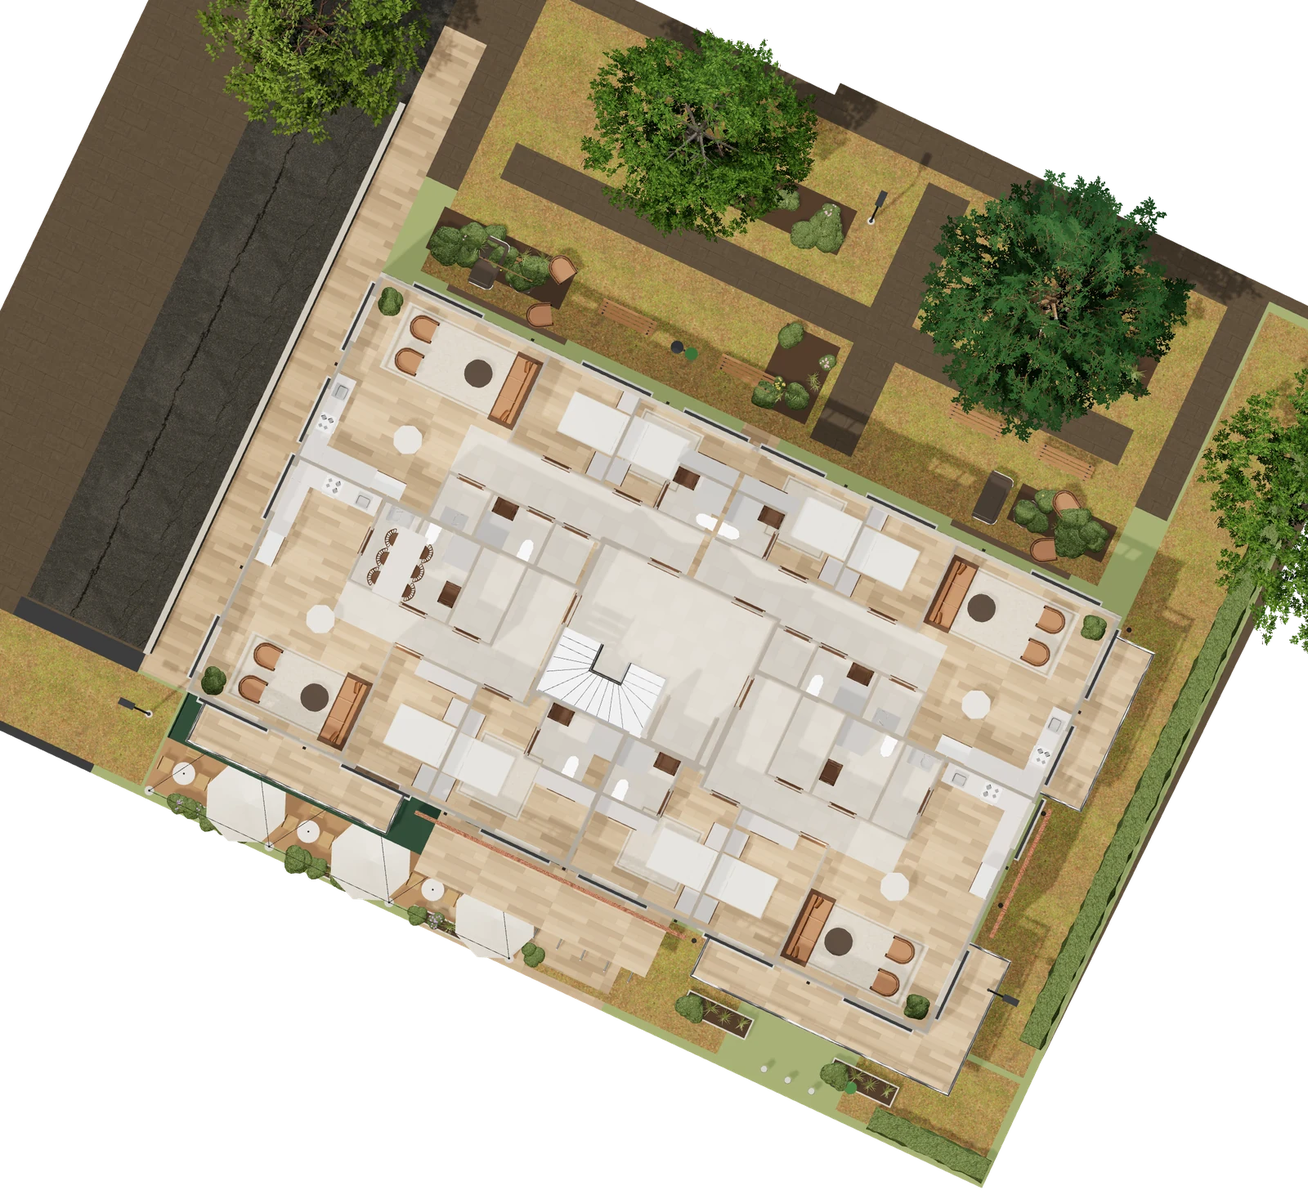
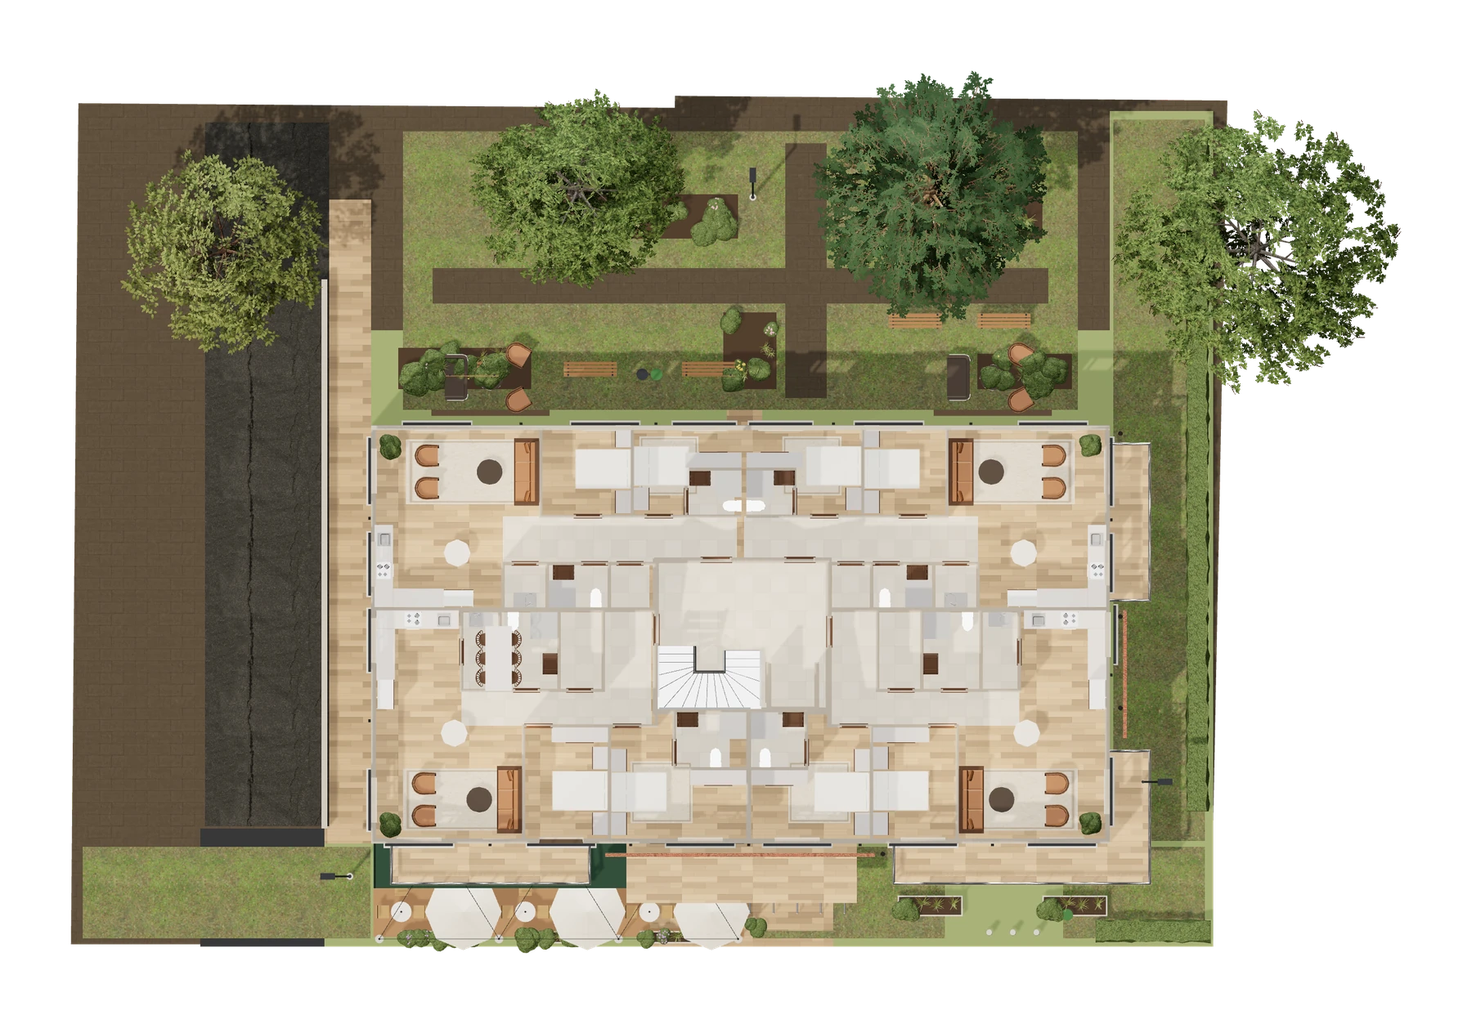
Brochure: cabida legible (pasos, planta recta con cotas y rotulos), bicicletero con fotos, imagenes sin zoom ni recortes que las pixelan, lift en celular en su proporcion

diff --git a/index.html b/index.html
@@ -15,7 +15,7 @@
   <link rel="preconnect" href="https://fonts.gstatic.com" crossorigin />
   <link href="https://fonts.googleapis.com/css2?family=Montserrat:wght@300;400;500;600&family=Manrope:wght@400;500;600;700&display=swap" rel="stylesheet" />
   <link rel="stylesheet" href="https://unpkg.com/leaflet@1.9.4/dist/leaflet.css" integrity="sha256-p4NxAoJBhIIN+hmNHrzRCf9tD/miZyoHS5obTRR9BMY=" crossorigin="" />
-  <link rel="stylesheet" href="./assets/brochure/arboleda.css?v=v6r" />
+  <link rel="stylesheet" href="./assets/brochure/arboleda.css?v=v7" />
   <script type="importmap">{ "imports": { "three": "https://unpkg.com/three@0.160.0/build/three.module.js", "three/addons/": "https://unpkg.com/three@0.160.0/examples/jsm/" } }</script>  <script type="importmap">{ "imports": { "three": "https://unpkg.com/three@0.160.0/build/three.module.js", "three/addons/": "https://unpkg.com/three@0.160.0/examples/jsm/" } }</script></head>
 <body class="is-loading">
     <div class="progress" aria-hidden="true"><i></i></div>
@@ -42,7 +42,7 @@
   <main id="main">
     <!-- Portada -->
     <section class="hero" id="inicio">
-      <div class="hero-media"><picture><source media="(max-width: 700px)" srcset="./assets/renders/hf-esquina-m.webp" /><img src="./assets/renders/hf-esquina.webp" alt="Distrito Arboleda al atardecer en la esquina de la Calle 56 con Carrera 18: fachada blanca con franjas de ladrillo, balcones con jardineras encendidos y los cerros de Bogotá al fondo" fetchpriority="high" /></picture></div>
+      <div class="hero-media"><picture><img src="./assets/renders/hf-esquina.webp" alt="Distrito Arboleda al atardecer en la esquina de la Calle 56 con Carrera 18: fachada blanca con franjas de ladrillo, balcones con jardineras encendidos y los cerros de Bogotá al fondo" fetchpriority="high" /></picture></div>
       <div class="hero-shade"></div>
       <div class="wrap hero-copy">
         <p class="hero-firm"><img src="./assets/branding/jmc-logo.png" alt="" width="40" height="40" /><span>JMC Arquitectura</span></p>
@@ -97,11 +97,15 @@
           <p class="cabida-lead">Lote esquinero de 1.104,84 m² en la Calle 56 con Carrera 18. El volumen se retira 3,50 m de las dos calles para los antejardines y deja un jardín en el patio.</p>
           <p class="eco-note"><svg class="eco-leaf" viewBox="0 0 24 24" aria-hidden="true"><path d="M5 19c0-8 5-13 15-14-1 10-6 15-14 15"/><path d="M5 19l8-8"/></svg>Solo el 31 % del lote se ocupa: el resto queda para antejardines sembrados, árboles y el jardín del patio.</p>
         </div>
+        <ol class="cb-steps">
+          <li><b>01</b><span>Lote</span><p>Englobe de cinco predios: 1.104,84 m² en la esquina.</p></li>
+          <li><b>02</b><span>Retiros</span><p>Antejardín de 3,50 m sobre las dos calles y aislamiento posterior de 3,00 m.</p></li>
+          <li><b>03</b><span>Huella × pisos</span><p>347,76 m² por piso × 6 pisos = 2.086,56 m² construidos.</p></li>
+          <li><b>04</b><span>Sótanos</span><p>2 niveles bajo todo el lote: 46 parqueaderos.</p></li>
+        </ol>
         <div class="cabida-vis">
-          <figure class="cabida-axo"><div class="cb-img"><img src="./assets/renders/cabida-axo.webp" alt="Axonometría renderizada de la cabida: edificio de 6 pisos sobre el lote esquinero con antejardines arborizados y dos sótanos de parqueaderos a la vista" loading="lazy" width="2000" height="1493" /><span class="lbl lbl-st" style="left:39.56%;top:78.32%">Calle 56</span><span class="lbl lbl-st" style="left:80.13%;top:74.02%">Carrera 18</span><span class="lbl lbl-s lbl-r" style="left:63.5%;top:89.1%">Sótano 1 · 23 parqueaderos</span><span class="lbl lbl-s lbl-r" style="left:63.5%;top:96.23%">Sótano 2 · 23 parqueaderos</span><span class="cb-h" style="left:21.77%;top:23.58%;height:42.78%"><em>18,6 m · 6 pisos</em></span><span class="lbl lbl-s" style="left:49.42%;top:15.58%">Terraza</span></div><figcaption>Axonometría · 6 pisos y 2 sótanos sobre el lote</figcaption></figure>
-          <figure class="cabida-fig"><div class="cb-img"><img src="./assets/renders/cabida-planta.webp" alt="Planta renderizada del piso tipo sobre el lote, con la misma orientación de la axonometría" loading="lazy" width="1600" height="1467" /><span class="lbl lbl-a" style="left:60.95%;top:70.32%"><b>A</b></span><span class="lbl lbl-a" style="left:31.86%;top:55.52%"><b>A</b></span><span class="lbl lbl-b" style="left:68.35%;top:53.03%"><b>B</b></span><span class="lbl lbl-b" style="left:39.26%;top:38.23%"><b>B</b></span><span class="lbl lbl-s" style="left:50.0%;top:54.52%">Punto fijo</span><span class="lbl lbl-st" style="left:37.85%;top:82.94%">Calle 56</span><span class="lbl lbl-st" style="left:88.34%;top:74.02%">Carrera 18</span></div>
-            <figcaption>Planta del piso tipo, vista con la misma orientación de la axonometría</figcaption>
-          </figure>
+          <figure class="cabida-axo"><div class="cb-img"><img src="./assets/renders/cabida-axo.webp" alt="Axonometría renderizada de la cabida: edificio de 6 pisos sobre el lote esquinero con antejardines arborizados y dos sótanos de parqueaderos a la vista" loading="lazy" width="2000" height="1493" /><span class="lbl lbl-st" style="left:39.56%;top:78.32%">Calle 56</span><span class="lbl lbl-st" style="left:80.13%;top:74.02%">Carrera 18</span><span class="lbl lbl-s lbl-r" style="left:63.5%;top:89.1%">Sótano 1 · 23 parqueaderos</span><span class="lbl lbl-s lbl-r" style="left:63.5%;top:96.23%">Sótano 2 · 23 parqueaderos</span><span class="cb-h" style="left:21.77%;top:23.58%;height:42.78%"><em>18,6 m · 6 pisos</em></span><span class="lbl lbl-s" style="left:49.42%;top:15.58%">Terraza</span></div><figcaption>Axonometría desde la esquina de la Calle 56 con Carrera 18</figcaption></figure>
+          <figure class="cabida-fig"><div class="cb-img"><img src="./assets/renders/cabida-planta.webp" alt="Planta renderizada del piso tipo sobre el lote: cuatro apartamentos alrededor del punto fijo, antejardines sobre la Calle 56 y la Carrera 18 y jardín del patio" loading="lazy" width="1800" height="1253" /><span class="lbl lbl-a" style="left:63.19%;top:71.74%"><b>A</b></span><span class="lbl lbl-a" style="left:37.41%;top:71.74%"><b>A</b></span><span class="lbl lbl-b" style="left:63.19%;top:51.56%"><b>B</b></span><span class="lbl lbl-b" style="left:37.41%;top:51.56%"><b>B</b></span><span class="lbl lbl-s" style="left:50.3%;top:61.94%">Punto fijo</span><span class="lbl lbl-st" style="left:50.3%;top:97%">Calle 56</span><span class="lbl lbl-st lbl-v" style="left:89.81%;top:61.94%">Carrera 18</span><span class="lbl lbl-st" style="left:50.3%;top:25.56%">Jardín del patio · aislamiento 3 m</span><span class="lbl lbl-g" style="left:50.3%;top:84.16%">Antejardín 3,50 m</span><span class="cb-dimh" style="left:4.82%;width:78.56%;top:94.41%"><em>38,58 m</em></span><span class="cb-dimv" style="top:9.35%;height:82.86%;left:3.22%"><em>28,58 m</em></span></div><figcaption><span><i class="k-a"></i>Tipo A · 78,75 m²</span><span><i class="k-b"></i>Tipo B · 70 m²</span><span>Planta del piso tipo (pisos 2 a 6)</span></figcaption></figure>
         </div>
         <dl class="cabida-dl"><div class="cb-row"><dt data-num="1104.8400" data-dec="2" data-pre="" data-suf=" m²">1.104,84 m²</dt><dd><b>Lote</b><span>Lote esquinero, englobe de cinco predios (Catastro Bogotá)</span></dd></div><div class="cb-row"><dt data-num="347.7600" data-dec="2" data-pre="" data-suf=" m²">347,76 m²</dt><dd><b>Huella del edificio</b><span>24,84 × 14,00 m, con punto fijo de 27,08 m²</span></dd></div><div class="cb-row"><dt data-num="0.3148" data-dec="2" data-pre="" data-suf="">0,31</dt><dd><b>Índice de ocupación</b><span>El 31 % del lote; el resto es antejardín y jardín</span></dd></div><div class="cb-row"><dt data-num="2086.5600" data-dec="2" data-pre="" data-suf=" m²">2.086,56 m²</dt><dd><b>Área construida</b><span>6 pisos de 347,76 m²</span></dd></div><div class="cb-row"><dt data-num="1.8886" data-dec="2" data-pre="" data-suf="">1,89</dt><dd><b>Índice de construcción</b><span>Área construida sobre área del lote</span></dd></div><div class="cb-row"><dt data-num="18.6000" data-dec="2" data-pre="" data-suf=" m">18,60 m</dt><dd><b>Altura</b><span>6 pisos de 3,10 m, más la terraza</span></dd></div><div class="cb-row"><dt data-num="46.0000" data-dec="0" data-pre="" data-suf="">46</dt><dd><b>Parqueaderos</b><span>2 sótanos de 23 cupos bajo todo el lote, con rampa sobre la Calle 56</span></dd></div><div class="cb-row"><dt data-num="20.0000" data-dec="0" data-pre="" data-suf="">20</dt><dd><b>Apartamentos</b><span>4 por piso en los pisos 2 a 6: 10 tipo A y 10 tipo B</span></dd></div><div class="cb-row"><dt data-num="1487.5000" data-dec="2" data-pre="" data-suf=" m²">1.487,50 m²</dt><dd><b>Área vendible</b><span>10 × 78,75 m² + 10 × 70,00 m²</span></dd></div><div class="cb-row"><dt data-num="19408.9000" data-dec="0" data-pre="$" data-suf=" M">$19.409 M</dt><dd><b>Ventas estimadas</b><span>Los 20 apartamentos a precio de lista por piso, en millones de pesos</span></dd></div><div class="cb-row"><dt data-num="260.8200" data-dec="1" data-pre="" data-suf=" m²">260,8 m²</dt><dd><b>Equipamiento comunal exigido</b><span>10 m² por cada 80 m² construidos (POT, Decreto 555 de 2021)</span></dd></div></dl>
         <p class="cabida-src">Fuentes: Catastro Bogotá (lote), POT de Bogotá, Decreto 555 de 2021 (antejardín, aislamiento posterior de 3,00 m y equipamiento comunal) y modelo de Revit del proyecto (huella, alturas y áreas).</p>
@@ -147,7 +151,7 @@
             <li><button type="button" data-z="4"><b>Sala de cine</b><span>Silletería reclinable, en el primer piso</span></button></li>
             <li><button type="button" data-z="5"><b>Gimnasio</b><span>Ventanal al jardín, pesas y cardio</span></button></li>
             <li><button type="button" data-z="6"><b>Jardín y antejardines</b><span>Árboles y jardineras sobre las dos calles</span></button></li>
-            <li class="plain"><b>Bicicletero</b><span>Cubierto, con acceso directo desde la calle</span></li>
+            <li><button type="button" data-z="7"><b>Bicicletero</b><span>Cubierto con pérgola de madera, estación de herramientas y acceso directo desde la calle</span></button></li>
           </ul>
         </div>
         <div class="zone-stage">
@@ -158,6 +162,7 @@
           <figure class="zpic zmos" data-z="4"><img class="zm-1" src="./assets/renders/cine-1.webp" alt="Sala de cine con pantalla grande y silletería reclinable de cuero" loading="lazy" /><img class="zm-2" src="./assets/renders/cine-2.webp" alt="Vecinos viendo una película en la sala de cine" loading="lazy" /><img class="zm-3" src="./assets/renders/cine-3.webp" alt="Filas escalonadas de la sala de cine con luz cálida en los escalones" loading="lazy" /><img class="zm-4" src="./assets/renders/cine-4.webp" alt="Vista de la sala de cine hacia la pantalla" loading="lazy" /></figure>
           <figure class="zpic zmos" data-z="5"><img class="zm-1" src="./assets/renders/gym-1.webp" alt="Gimnasio con máquinas, pesas y ventanal al jardín" loading="lazy" /><img class="zm-2" src="./assets/renders/gym-2.webp" alt="Caminadoras y bicicleta frente al ventanal sobre la calle arborizada" loading="lazy" /><img class="zm-3" src="./assets/renders/gym-3.webp" alt="Zona de pesas con espejo y entrenadora" loading="lazy" /><img class="zm-4" src="./assets/renders/gym-4.webp" alt="Zona de estiramiento con mueble de nogal y colchonetas" loading="lazy" /></figure>
           <figure class="zpic" data-z="6"><img src="./assets/renders/jardin-fachada.webp" alt="Jardín y antejardines sembrados frente al edificio" loading="lazy" /></figure>
+          <figure class="zpic zmos" data-z="7"><img class="zm-1" src="./assets/renders/bici-1.webp" alt="Bicicletero bajo pérgola de madera junto al edificio de ladrillo" loading="lazy" /><img class="zm-2" src="./assets/renders/bici-2.webp" alt="Bicicletas en los soportes del bicicletero rodeado de jardineras" loading="lazy" /><img class="zm-3" src="./assets/renders/bici-3.webp" alt="Estación de herramientas y banca de madera en el bicicletero" loading="lazy" /><img class="zm-4" src="./assets/renders/bici-4.webp" alt="Bicicletero cubierto al atardecer entre árboles" loading="lazy" /></figure>
         </div>
       </div>
     </section>
@@ -482,6 +487,6 @@
   <script src="https://cdnjs.cloudflare.com/ajax/libs/gsap/3.12.5/ScrollTrigger.min.js"></script>
   <script src="https://unpkg.com/leaflet@1.9.4/dist/leaflet.js" integrity="sha256-20nQCchB9co0qIjJZRGuk2/Z9VM+kNiyxNV1lvTlZBo=" crossorigin=""></script>
   <script src="https://unpkg.com/lenis@1.1.13/dist/lenis.min.js"></script>
-  <script src="./assets/brochure/arboleda.js?v=v6r"></script>  <a class="jmc-badge" href="#firma" aria-label="JMC Arquitectura"><img src="./assets/branding/jmc-logo.png" alt="" width="28" height="28" /><span>JMC Arquitectura</span></a>
+  <script src="./assets/brochure/arboleda.js?v=v7"></script>  <a class="jmc-badge" href="#firma" aria-label="JMC Arquitectura"><img src="./assets/branding/jmc-logo.png" alt="" width="28" height="28" /><span>JMC Arquitectura</span></a>
 </body>
 </html>

diff --git a/assets/brochure/arboleda.css b/assets/brochure/arboleda.css
@@ -1247,3 +1247,58 @@ html { scrollbar-color: var(--ink) var(--bg); scrollbar-width: thin; }
   .stc-img { overflow: hidden; }
   .stc-img img { width: 175% !important; max-width: none; margin-left: -48%; }
 }
+
+/* ===================== v7: nitidez de imágenes y cabida legible ===================== */
+/* zonas: recuadro horizontal (las fotos son horizontales) y sin ampliar la imagen */
+.zone-stage { aspect-ratio: 3 / 2 !important; }
+.zpic img, .zone-stage:hover .zpic.on img { transform: none !important; }
+.zpic.zmos { grid-template-columns: 1fr 1fr !important; grid-template-rows: 1fr 1fr !important; gap: 4px !important; }
+.zpic.zmos .zm-1 { grid-column: auto !important; }
+.zone-grid, .zonas .wrap > div:first-child { align-items: center; }
+/* el edificio por dentro: sin zoom; en celular la foto va arriba en su proporción y el texto abajo */
+.lift-shot img { transform: none !important; }
+@media (max-width: 760px) {
+  .lift-shot img { height: auto !important; aspect-ratio: 16 / 10; position: absolute; top: 72px; left: 0; }
+  .lift-shot { background: var(--night); }
+  .lift-shade { background: linear-gradient(0deg, var(--night) 0%, var(--night) 46%, rgba(15, 28, 46, 0) 62%) !important; }
+}
+/* portada en celular: encuadre sobre el edificio */
+@media (max-width: 700px) { .hero-media img { object-position: 62% 50%; } }
+
+/* cabida: pasos para leerla */
+.cb-steps { list-style: none; margin: clamp(26px, 4vw, 44px) 0 clamp(26px, 4vw, 40px); padding: 0; display: grid; grid-template-columns: repeat(4, minmax(0, 1fr)); gap: 0; counter-reset: s; border-top: 1px solid rgba(255, 255, 255, .18); }
+.cb-steps li { padding: 18px 20px 4px 0; position: relative; }
+.cb-steps li + li { padding-left: 20px; border-left: 1px solid rgba(255, 255, 255, .12); }
+.cb-steps b { display: block; font: 200 34px/1 var(--display); color: var(--sky); }
+.cb-steps span { display: block; margin: 10px 0 6px; font: 500 12px var(--display); letter-spacing: .2em; text-transform: uppercase; color: #fff; }
+.cb-steps p { margin: 0; font-size: 14.5px; line-height: 1.55; color: var(--on-night-2); }
+.cabida .cabida-vis { grid-template-columns: minmax(0, 1fr) minmax(0, 1.1fr) !important; gap: clamp(14px, 2vw, 26px) !important; align-items: stretch !important; }
+.cabida .cabida-axo, .cabida .cabida-fig { display: flex; flex-direction: column; justify-content: center; }
+.cabida-fig figcaption { display: flex; flex-wrap: wrap; gap: 8px 20px; }
+.cabida-fig figcaption span { display: inline-flex; align-items: center; gap: 8px; }
+.cabida-fig figcaption i { width: 12px; height: 12px; border-radius: 2px; }
+.lbl-g { color: #fff; background: #5f7448; padding: 4px 9px; border-radius: 3px; font-size: 10px; }
+.lbl-v { transform: translate(-50%, -50%) rotate(-90deg); }
+.cb-dimh, .cb-dimv { position: absolute; pointer-events: none; border-color: var(--ink); }
+.cb-dimh { height: 0; border-top: 1px solid; }
+.cb-dimv { width: 0; border-left: 1px solid; }
+.cb-dimh::before, .cb-dimh::after { content: ''; position: absolute; top: -5px; width: 1px; height: 10px; background: var(--ink); }
+.cb-dimh::before { left: 0; } .cb-dimh::after { right: 0; }
+.cb-dimv::before, .cb-dimv::after { content: ''; position: absolute; left: -5px; height: 1px; width: 10px; background: var(--ink); }
+.cb-dimv::before { top: 0; } .cb-dimv::after { bottom: 0; }
+.cb-dimh em, .cb-dimv em { position: absolute; font: 500 11px var(--display); letter-spacing: .12em; font-style: normal; color: var(--ink); background: #f4eee3; padding: 0 6px; white-space: nowrap; }
+.cb-dimh em { left: 50%; top: 0; transform: translate(-50%, -50%); }
+.cb-dimv em { top: 50%; left: 0; transform: translate(-50%, -50%) rotate(-90deg); }
+@media (max-width: 860px) {
+  .cb-steps { grid-template-columns: 1fr 1fr; }
+  .cb-steps li:nth-child(3) { padding-left: 0; border-left: 0; }
+  .cabida .cabida-vis { grid-template-columns: 1fr !important; }
+  .cb-dimh em, .cb-dimv em { font-size: 9px; }
+  .lbl-g { font-size: 8px; }
+}
+
+.cabida-fig .lbl-st:not(.lbl-v) + .lbl-st { }
+.lbl-r { transform: translate(-100%, -50%) !important; }
+.cb-dimh em { left: 22%; }
+
+@media (max-width: 760px) { .lift-copy { bottom: auto !important; top: calc(72px + 62.5vw + 28px) !important; } .lift-floors { display: none !important; } }

diff --git a/assets/brochure/arboleda.js b/assets/brochure/arboleda.js
@@ -324,8 +324,12 @@ if (corte) {
 // ------------------------------------------------------------------ cabida: se traza el lote y se asienta la huella
 if (motion && document.querySelector('.cabida')) {
   const tl = g.timeline({ scrollTrigger: { trigger: '.cabida-fig', start: 'top 75%' } });
-  tl.fromTo('.cabida .cb-img img', { clipPath: 'circle(0% at 50% 60%)' }, { clipPath: 'circle(75% at 50% 60%)', duration: 1.8, stagger: 0.3, ease: 'power3.inOut' })
-    .from('.cabida .lbl, .cabida .cb-h', { opacity: 0, y: 10, duration: 0.5, stagger: 0.06, ease: 'power3.out' }, 1.2);
+  document.querySelectorAll('.cabida .cb-img').forEach((box) => {
+    g.timeline({ scrollTrigger: { trigger: box, start: 'top 85%' } })
+      .fromTo(box.querySelector('img'), { clipPath: 'circle(0% at 50% 60%)' }, { clipPath: 'circle(75% at 50% 60%)', duration: 1.6, ease: 'power3.inOut' })
+      .from(box.querySelectorAll('.lbl, .cb-h, .cb-dimh, .cb-dimv'), { opacity: 0, y: 10, duration: 0.5, stagger: 0.06, ease: 'power3.out' }, 1.0);
+  });
+  g.from('.cb-steps li', { y: 30, opacity: 0, duration: 0.8, stagger: 0.12, ease: 'expo.out', scrollTrigger: { trigger: '.cb-steps', start: 'top 85%' } });
   g.from('.cb-row', { y: 26, opacity: 0, duration: 0.8, stagger: 0.07, ease: 'expo.out', scrollTrigger: { trigger: '.cabida-dl', start: 'top 82%' } });
 }
 

diff --git a/scripts/build-brochure-sections.py b/scripts/build-brochure-sections.py
@@ -339,11 +339,15 @@ blocks['cabida'] = f'''
           <p class="cabida-lead">Lote esquinero de {es(lote)} m² en la Calle 56 con Carrera 18. El volumen se retira {es(ant)} m de las dos calles para los antejardines y deja un jardín en el patio.</p>
           <p class="eco-note"><svg class="eco-leaf" viewBox="0 0 24 24" aria-hidden="true"><path d="M5 19c0-8 5-13 15-14-1 10-6 15-14 15"/><path d="M5 19l8-8"/></svg>Solo el {round(huella/lote*100)} % del lote se ocupa: el resto queda para antejardines sembrados, árboles y el jardín del patio.</p>
         </div>
+        <ol class="cb-steps">
+          <li><b>01</b><span>Lote</span><p>Englobe de cinco predios: {es(lote)} m² en la esquina.</p></li>
+          <li><b>02</b><span>Retiros</span><p>Antejardín de {es(ant)} m sobre las dos calles y aislamiento posterior de {es(pa["aislamientoPosteriorM"])} m.</p></li>
+          <li><b>03</b><span>Huella × pisos</span><p>{es(huella)} m² por piso × {NF} pisos = {es(constr)} m² construidos.</p></li>
+          <li><b>04</b><span>Sótanos</span><p>2 niveles bajo todo el lote: 46 parqueaderos.</p></li>
+        </ol>
         <div class="cabida-vis">
-          <figure class="cabida-axo"><div class="cb-img"><img src="./assets/renders/cabida-axo.webp" alt="Axonometría renderizada de la cabida: edificio de 6 pisos sobre el lote esquinero con antejardines arborizados y dos sótanos de parqueaderos a la vista" loading="lazy" width="2000" height="1493" /><span class="lbl lbl-st" style="left:39.56%;top:78.32%">Calle 56</span><span class="lbl lbl-st" style="left:80.13%;top:74.02%">Carrera 18</span><span class="lbl lbl-s lbl-r" style="left:63.5%;top:89.1%">Sótano 1 · 23 parqueaderos</span><span class="lbl lbl-s lbl-r" style="left:63.5%;top:96.23%">Sótano 2 · 23 parqueaderos</span><span class="cb-h" style="left:21.77%;top:23.58%;height:42.78%"><em>18,6 m · 6 pisos</em></span><span class="lbl lbl-s" style="left:49.42%;top:15.58%">Terraza</span></div><figcaption>Axonometría · {NF} pisos y 2 sótanos sobre el lote</figcaption></figure>
-          <figure class="cabida-fig"><div class="cb-img"><img src="./assets/renders/cabida-planta.webp" alt="Planta renderizada del piso tipo sobre el lote, con la misma orientación de la axonometría" loading="lazy" width="1600" height="1467" /><span class="lbl lbl-a" style="left:60.95%;top:70.32%"><b>A</b></span><span class="lbl lbl-a" style="left:31.86%;top:55.52%"><b>A</b></span><span class="lbl lbl-b" style="left:68.35%;top:53.03%"><b>B</b></span><span class="lbl lbl-b" style="left:39.26%;top:38.23%"><b>B</b></span><span class="lbl lbl-s" style="left:50.0%;top:54.52%">Punto fijo</span><span class="lbl lbl-st" style="left:37.85%;top:82.94%">Calle 56</span><span class="lbl lbl-st" style="left:88.34%;top:74.02%">Carrera 18</span></div>
-            <figcaption>Planta del piso tipo, vista con la misma orientación de la axonometría</figcaption>
-          </figure>
+          <figure class="cabida-axo"><div class="cb-img"><img src="./assets/renders/cabida-axo.webp" alt="Axonometría renderizada de la cabida: edificio de 6 pisos sobre el lote esquinero con antejardines arborizados y dos sótanos de parqueaderos a la vista" loading="lazy" width="2000" height="1493" /><span class="lbl lbl-st" style="left:39.56%;top:78.32%">Calle 56</span><span class="lbl lbl-st" style="left:80.13%;top:74.02%">Carrera 18</span><span class="lbl lbl-s lbl-r" style="left:63.5%;top:89.1%">Sótano 1 · 23 parqueaderos</span><span class="lbl lbl-s lbl-r" style="left:63.5%;top:96.23%">Sótano 2 · 23 parqueaderos</span><span class="cb-h" style="left:21.77%;top:23.58%;height:42.78%"><em>18,6 m · 6 pisos</em></span><span class="lbl lbl-s" style="left:49.42%;top:15.58%">Terraza</span></div><figcaption>Axonometría desde la esquina de la Calle 56 con Carrera 18</figcaption></figure>
+          <figure class="cabida-fig"><div class="cb-img"><img src="./assets/renders/cabida-planta.webp" alt="Planta renderizada del piso tipo sobre el lote: cuatro apartamentos alrededor del punto fijo, antejardines sobre la Calle 56 y la Carrera 18 y jardín del patio" loading="lazy" width="1800" height="1253" /><span class="lbl lbl-a" style="left:63.19%;top:71.74%"><b>A</b></span><span class="lbl lbl-a" style="left:37.41%;top:71.74%"><b>A</b></span><span class="lbl lbl-b" style="left:63.19%;top:51.56%"><b>B</b></span><span class="lbl lbl-b" style="left:37.41%;top:51.56%"><b>B</b></span><span class="lbl lbl-s" style="left:50.3%;top:61.94%">Punto fijo</span><span class="lbl lbl-st" style="left:50.3%;top:97%">Calle 56</span><span class="lbl lbl-st lbl-v" style="left:89.81%;top:61.94%">Carrera 18</span><span class="lbl lbl-st" style="left:50.3%;top:25.56%">Jardín del patio · aislamiento 3 m</span><span class="lbl lbl-g" style="left:50.3%;top:84.16%">Antejardín 3,50 m</span><span class="cb-dimh" style="left:4.82%;width:78.56%;top:94.41%"><em>38,58 m</em></span><span class="cb-dimv" style="top:9.35%;height:82.86%;left:3.22%"><em>28,58 m</em></span></div><figcaption><span><i class="k-a"></i>Tipo A · 78,75 m²</span><span><i class="k-b"></i>Tipo B · 70 m²</span><span>Planta del piso tipo (pisos 2 a 6)</span></figcaption></figure>
         </div>
         <dl class="cabida-dl">{cab_dl}</dl>
         <p class="cabida-src">Fuentes: Catastro Bogotá (lote), POT de Bogotá, Decreto 555 de 2021 (antejardín, aislamiento posterior de {es(pa["aislamientoPosteriorM"])} m y equipamiento comunal) y modelo de Revit del proyecto (huella, alturas y áreas).</p>
